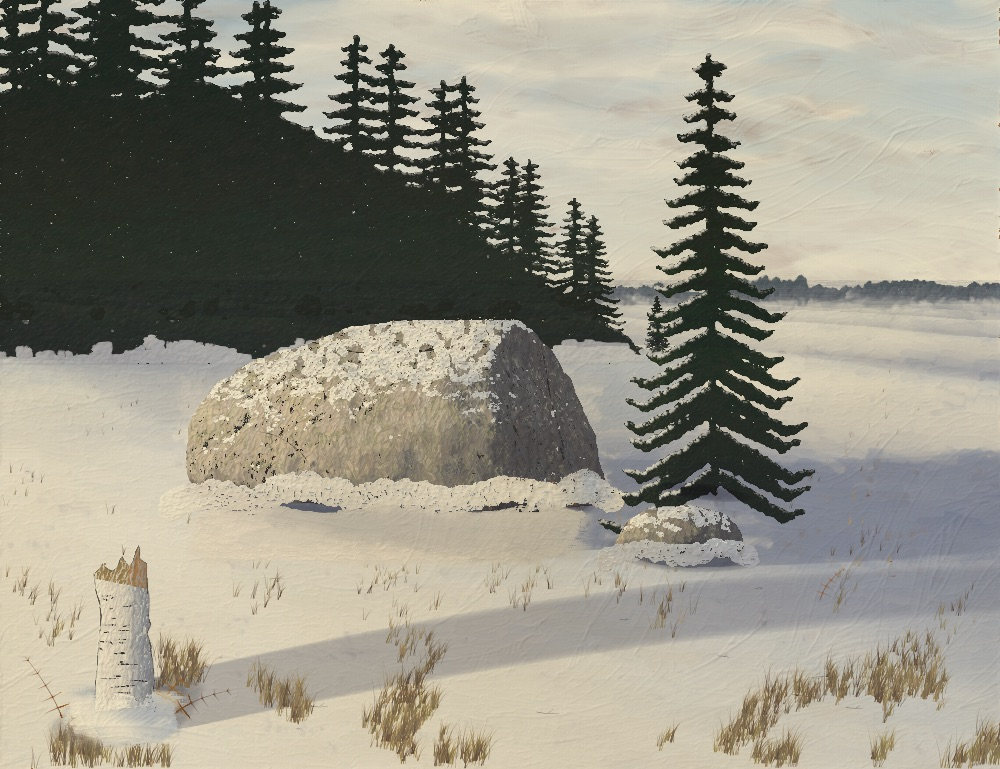
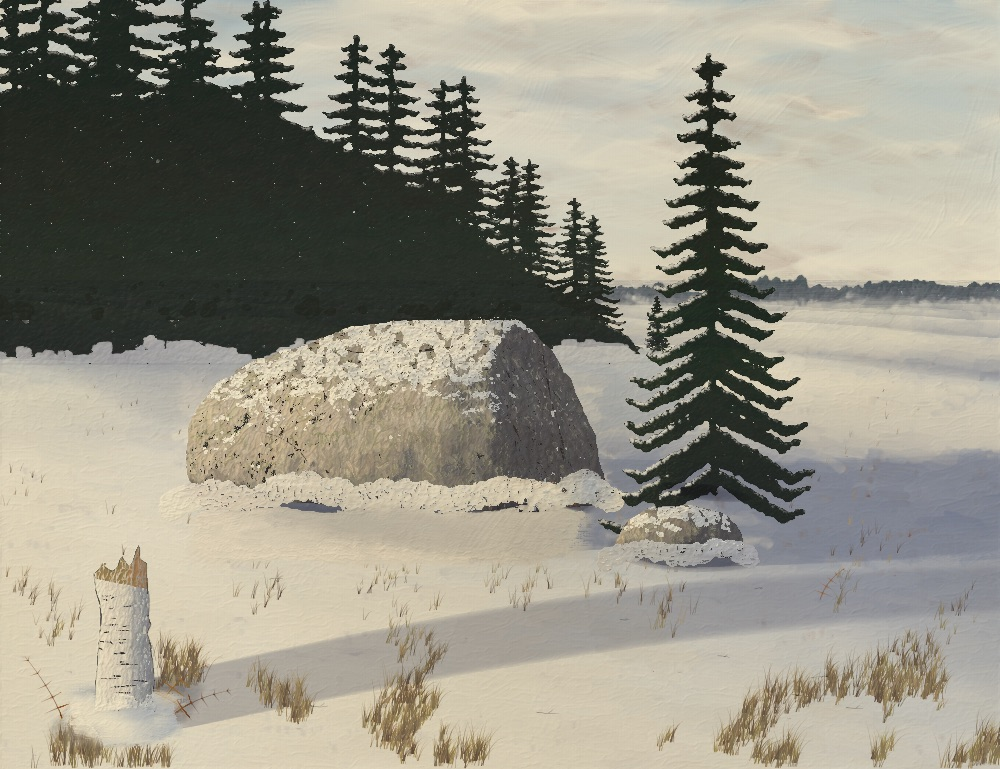
notes/loop2_grain.md round 2: ploughing as the cause of the dotted contours, measurements, before/round1/after crops; stale doc numbers

diff --git a/crates/paint/src/style.rs b/crates/paint/src/style.rs
@@ -190,11 +190,13 @@ impl Style {
 /// A brushed top ground, put on as a primer brushes out lead white in oil
 /// (see notes/loop2_grain.md): the paste is first spread with a broad hog
 /// brush in crossing strokes whose direction wanders over the canvas, then
-/// laid off while wet with light passes of the unloaded brush, mostly across
-/// but by hand, which level the ridges the spreading left at the stroke
-/// edges and leave only fine, broken bristle striations. (Before loop 2 the
-/// paste went on in long, full, parallel strokes that set with their edge
-/// ridges a few mm apart: a horizontal wood-grain under every thin sky.)
+/// laid off while wet with light passes of the unloaded brush held low, which
+/// skim rather than plough, level the spreading's stroke edges and leave
+/// only fine, broken bristle striations. (Before loop 2 the paste went on in
+/// long, full, parallel strokes that set with their edge ridges a few mm
+/// apart: a horizontal wood-grain under every thin sky. Ploughed ridges
+/// were tall, sharp crests that thin sky paint drained off, leaving
+/// one-pixel lines of bare ground.)
 fn brush_ground(c: &mut Canvas, g: &Ground, s: u64) {
     let all = Mask::from_fn(c.frame(), |_, _| 1.0);
     let hog = Tool { lay: 1.2, ragged: 0.2, ..Tool::hog_flat(40.0) };

diff --git a/crates/paint/tests/ground_grain.rs b/crates/paint/tests/ground_grain.rs
@@ -101,9 +101,9 @@ fn only(st: &Style, g: Vec<Ground>) -> Style {
 /// The brushed top ground is not a field of parallel horizontal ridges: a
 /// primer's hand still favors the across direction a little, but its
 /// relief runs every way. At 1200 px the knife-spread layers under it
-/// measure 1.05 fine and 1.04 coarse; the brushed ground 1.53 and 1.80
+/// measure 1.05 fine and 1.04 coarse; the brushed ground 1.29 and 1.61
 /// (before loop 2: 2.63 and 5.6, the wood-grain). At 3200 px
-/// (`print_ground_grain`, seeds 1, 23, 5) it is 2.0–2.4 and 2.2–2.8
+/// (`print_ground_grain`, seeds 1, 23, 5) it is 1.73–1.76 and 2.04–2.50
 /// (before: 3.6–4.1 and 7.4–8.5; linen + knives 1.5 and 2.5).
 #[test]
 fn friedrich_ground_has_no_horizontal_grain() {

diff --git a/notes/loop2_grain.md b/notes/loop2_grain.md
@@ -16,54 +16,90 @@ apart across the whole canvas. `relief()` lit them through every thin sky
 and snow passage. It wasn't the linen: the weave alone measures isotropic,
 and the knife layers level it.
 
-Measured on the ground's height field (`crates/paint/tests/ground_grain.rs`,
-3200 px, a 400 × 300 unit window, seeds 1, 23 and 5). *Fine* is the mean
-squared slope down the columns over along the rows (1 = no preferred
-direction). *Coarse* is the same after a ~1 mm blur: the stroke-edge ridges
-that make the wood-grain.
-
-| ground | fine | coarse |
-|---|---|---|
-| linen + the two knife layers | 1.5 | 2.5 |
-| old brushed top ground | 3.6–4.1 | **7.4–8.5** |
-| new brushed top ground | 2.0–2.4 | 2.2–2.8 |
-| `friedrich_early` (roller) | 0.8 | 1.2 |
-
 ## Fix
 
 `brush_ground` in `style.rs` brushes the top ground the way a primer brushes
 out a priming, in two passes over the wet paste:
 
-1. **Spread**: the same hog and paste, in crossing strokes (`cross 0.5`) of
-   150–400 units. Their direction drifts patch by patch: ±1.1 rad on a
-   ~150-unit (66 mm) noise field, across on average.
-2. **Lay off**: the clean hog (`blender()`), drawn lightly (pressure
-   0.35–0.55, coverage 3.5) through the wet paste along the same drifting
-   direction. This levels the spreading's ridges and leaves fine, broken
-   striations.
+1. **Spread**: the hog in crossing strokes (`cross 0.5`) of 100–250 units.
+   Their direction drifts patch by patch: ±0.7 rad on a ~90-unit (40 mm)
+   noise field, across on average. The paste is pushed a little ahead of the
+   bristles (`push 0.15`), not ploughed into ridges.
+2. **Lay off**: the clean hog (`blender()`) drawn lightly (pressure
+   0.35–0.55, coverage 3.5) through the wet paste along the same direction.
+   It is held low, so it skims the paste (`push 0.03`).
 
-The layer still has a direction locally (the source says striations show),
-but no canvas-wide parallel ridges. The thickness calibration changed with
-the handling: the load is now `(um / 296)^(1/1.25)`, fit to measurements at
-30, 60 and 90 µm. `brushed_ground_honors_thickness` asks 30/60/90 µm and gets
-29.9/59.8/90.6.
+The thickness calibration is refit to the new handling: load =
+`(um / 364)^(1/1.24)`. `brushed_ground_honors_thickness` asks 30/60/90 µm
+and gets 30.5/59.8/89.1.
 
-**Rationale and sources.**
+### Round 2: the dotted contours (integrator review)
+
+Round 1 (commit f3fd2cb) removed the grain but left one-pixel orange dotted
+contours in thin skies at 3200 px. It also drifted 2.2 rad over 150 units,
+which read as swirling arcs (`round1_near_sky_3200.jpg`,
+`round1_sky_dashes_zoom.jpg`). The root cause was **ploughing**. The hog's
+own `push 0.3`, on both passes (the clean lay-off brush at 3.5× coverage
+too), pushed the wet priming into ridges at the bristle and stroke edges. At
+one bare pixel the ground was 520 µm thick against the 240 µm the three
+layers ask for, rising ~280 µm within 0.7 mm (`tests::diag_sky_bare_pixels`,
+`DIAG_PX=217895`). A thin sky over such a crest levels off it (the fine band
+levels in ~7 s, Orchard's τ = 3η(λ/2π)⁴/(σh³)), so the crest keeps 0–9 µm.
+That draws a one-pixel line of ground.
+
+I checked and ruled out:
+- the look-and-fill pass: every bare pixel had wet paint and full cover;
+- sharing the ploughed paint bilinearly: bare pixels 347 → 328;
+- a residual film on crests in `settle`, as the h³ drainage stall
+  ∛(3η(λ/2π)⁴/(σ t_set)) ≈ 6 µm. It avoids exact zeros, but 6 µm of pale
+  paint over red ground still reads as bare, so I dropped it.
+
+Laying off is done with a light, low brush that skims the paste, so the
+lay-off push went to 0.03 and the spread's to 0.15. Measured over seeds 23,
+1 and 5 at 3200 px (`sky_bares_ground`), a blended thin sky leaves this many
+bare pixels:
+
+| ground | bare pixels |
+|---|---|
+| old brushed ground | 98 |
+| round 1 | 883 |
+| round 2 | 164 |
+
+The remaining ones are thin spots in the sky's own strokes, not crests. They
+average 0.57 coats laid against 2.1 elsewhere, at average relief, and the
+knife-only ground has them too.
+
+## Rationale and sources
+
 - The top ground was brushed and its bristle striations "shine through the
   thin upper paint layers" [KÖR p.284, in `notes/research/friedrich_materials.md`
-  line 25]. So the texture stays; only its mechanical regularity goes.
+  line 25]. So a texture stays; its mechanical regularity goes.
 - A period recipe for priming canvas lays the priming "up and down the canvas
   with as long a stretch as possible, then horizontally, and afterwards
   perpendicularly again … finishing off horizontally", all while wet
   (*How To Prepare The Canvas*,
   https://chestofbooks.com/home-improvement/repairs/painting/Cyclopedia/How-To-Prepare-The-Canvas.html).
-  This is an analog, not Friedrich evidence: it describes a scene painter's
-  distemper priming. It supports cross-brushing first and a final lay-off
-  pass. The drifting direction is my assumption (a hand-brushed priming,
-  worked patch by patch).
+  This is an analog: it describes a scene painter's distemper priming, not
+  Friedrich's oil ground. It supports cross-brushing and a final lay-off
+  pass. The drifting direction and the low-push lay-off are my assumptions.
 - The roller texture stays the `friedrich_early` (Berlin) default, where
   CATS p.127 describes it. For Dresden, KÖR describes brushing, so the brush
   stays the Friedrich default.
+
+## Measurements
+
+Height field, 3200 px, a 400 × 300 unit window, seeds 1, 23 and 5
+(`print_ground_grain`). *Fine* is the mean squared slope down the columns
+over along the rows (1 = no preferred direction); *coarse* is the same after
+a ~1 mm blur (the wood-grain scale). *RMS* is the RMS slope in µm/mm.
+
+| ground | fine | coarse | RMS |
+|---|---|---|---|
+| linen + the two knife layers | 1.5 | 2.5 | 54 |
+| old brushed ground | 3.6–4.1 | **7.4–8.5** | n/a |
+| round 1 | 2.0–2.4 | 2.2–2.8 | 99–107 |
+| round 2 | 1.73–1.76 | 2.04–2.50 | 63–68 |
+| `friedrich_early` (roller) | 0.8 | 1.2 | 26 |
 
 ## API
 
@@ -74,60 +110,44 @@ session with `style="friedrich"` gets it too.
 ## Tests
 
 - `friedrich_ground_has_no_horizontal_grain` (in `crates/paint/tests/ground_grain.rs`,
-  1200 px, debug profile ~30–60 s): fine < 2.2, coarse < 3.0, and the
-  brushed ground's RMS slope must stay > 1.2× the knife layers' (the
-  striations must not be leveled away). New: 1.53 / 1.80. The old ground
-  failed it (2.63 / 5.6).
-- Diagnostics (ignored): `print_ground_grain` (the table above),
-  `save_ground_crops` (lit bare-ground crops, `GRAIN_OUT=dir`) and
-  `sky_bares_ground` (see Known issues).
+  1200 px, debug profile): fine < 2.2, coarse < 3.0, and the RMS slope must
+  stay > 1.2× the knife layers' (striations kept). Round 2 gives 1.29 /
+  1.61, RMS 1.5×. The old ground fails (2.63 / 5.6).
+- `sky_bares_ground` (ignored: ~1 min in release, far longer in debug):
+  asserts new ≤ 2 × old + 20 bare pixels against the old recipe, rebuilt in
+  the test (`old_brushed`). Run it with
+  `cargo test --release -p paint --test ground_grain -- --ignored sky_bares --nocapture`.
+- Diagnostics (ignored): `print_ground_grain`, `save_ground_crops`
+  (`GRAIN_OUT=dir`) and `tests::diag_sky_bare_pixels` (the wet state of
+  bare pixels before the bake; `DIAG_PX=i` prints the ground around a
+  pixel).
 - `cargo test --workspace` passes.
-- **Golden re-recorded** (`crates/paint/tests/golden_scene.txt`, commit
-  f3fd2cb): the golden scene is prepared with `Style::friedrich()`, so its
-  top ground changed on purpose.
+- **Golden re-recorded** in commits f3fd2cb and 985b948: the golden scene is
+  prepared with `Style::friedrich()`, so its top ground changed on purpose.
 
 ## Evidence (`notes/loop2_grain/`)
 
 Replays of `notes/amnesia4/easel4_near.lua` at `--width 3200`: sky crop
-`820,20,1000,200`, snow crop `820,310,1000,450`.
-- `before_bare_ground_lit.jpg` / `after_bare_ground_lit.jpg`: the bare
-  ground lit by `relief(0.35)`. Before: long wavy parallel ridges across the
-  whole width. After: arcs in varied directions, a hand-brushed layer.
-- `before_near_snow_3200.jpg` / `after_near_snow_3200.jpg`: the wood-grain
-  in the snow is gone. What shows now is a faint criss-cross of brushing.
-- `before_near_sky_3200.jpg` / `after_near_sky_3200.jpg`: the sky no longer
-  sits on parallel streaks. It shows arcs of brushing (partly the sky's own
-  strokes). See Known issues.
-- Study sheet: `cargo paint study_ground` (bare ground band on top, then
-  thin blue, stiff white and a glaze over it) shows the new ground unchanged
-  in code.
-- `after_near_1000.jpg`: the whole painting. Compare
-  `notes/amnesia4/easel4_near.jpg`: the horizontal streaks in the sky are
-  gone at picture scale.
+`820,20,1000,200`, snow crop `820,310,1000,450`. Counts are orange
+bare-ground pixels (r − b > 45 and r > 120, the canvas edge excluded).
+- `before_near_sky_3200.jpg` → `round1_near_sky_3200.jpg` →
+  `after_near_sky_3200.jpg`: horizontal streaks, then swirls and dashes
+  (574 px), then a soft sky (14 px; the old ground had 1).
+- `before_near_snow_3200.jpg` → `after_near_snow_3200.jpg`: the wood-grain
+  becomes a faint texture in mixed directions (192 → 166 px, all in the
+  dotted arcs at the top that were already there before).
+- `before_bare_ground_lit.jpg` → `after_bare_ground_lit.jpg`: the bare
+  ground lit by `relief(0.35)`.
+- `after_near_1000.jpg`: the whole painting; compare
+  `notes/amnesia4/easel4_near.jpg`.
+- Study sheet: `cargo paint study_ground` (bare ground band on top).
 
 ## Known issues
 
-- **Bare-ground contour dashes in thin blended skies at 3200 px.** In the
-  sky crop, 574 px (0.18%) of saturated ground color show as one-pixel
-  dotted contours along some ridges. The old ground had 1 px
-  (`after_sky_rings_zoom.jpg`; counted as r − b > 45 and r > 120). The snow
-  crop is unchanged (192 → 193 px). They are invisible at 1000 px.
-  `sky_bares_ground` isolates it. A thin broad sky over the old brushed
-  ground leaves 532 bare px, and the badger blend closes nearly all of them
-  (→ 2). Over the new ground the blend closes few (392 → 347). The blender
-  runs across the canvas. The old ridges ran with it, so it smeared paint
-  along them, while the new ones cross it and keep bare crests. Things I
-  tried that didn't fix it: a residual film on crests in `settle` (reverted,
-  no effect), softer paste, lighter spreading, and a firmer or longer lay-off
-  at the same thickness (a firmer lay-off only helped by laying less paste).
-  Next: find where the thin film goes to zero along a contour (bristle
-  pickup on crests across the stroke, `bristle.rs` around line 1186, or the
-  wet bake). The rings' one-pixel width suggests a threshold, not a physical
-  thinning, and it probably also makes the dotted arcs already present in the
-  old snow crop.
+- The dotted arcs along the top of the snow crop predate this branch
+  (they are in the before render). They're probably the same crest drain
+  over the snow's own impasto ridges; I didn't touch them.
+- A thin blended sky still leaves ~1.7× the old ground's bare pixels. These
+  come from thin spots in the sky strokes, not from the ground.
 - The loop-1 near session isn't in this repo, so I checked only
   `easel4_near.lua`. The fix is in the style, so it applies to both.
-- The drifting direction field is visible as swirling arcs in the bare
-  ground at close range. If a critic reads that as a pattern, lower the
-  drift amplitude (2.2 → 1.6 in `brush_ground`) at the cost of a little more
-  horizontal bias.
